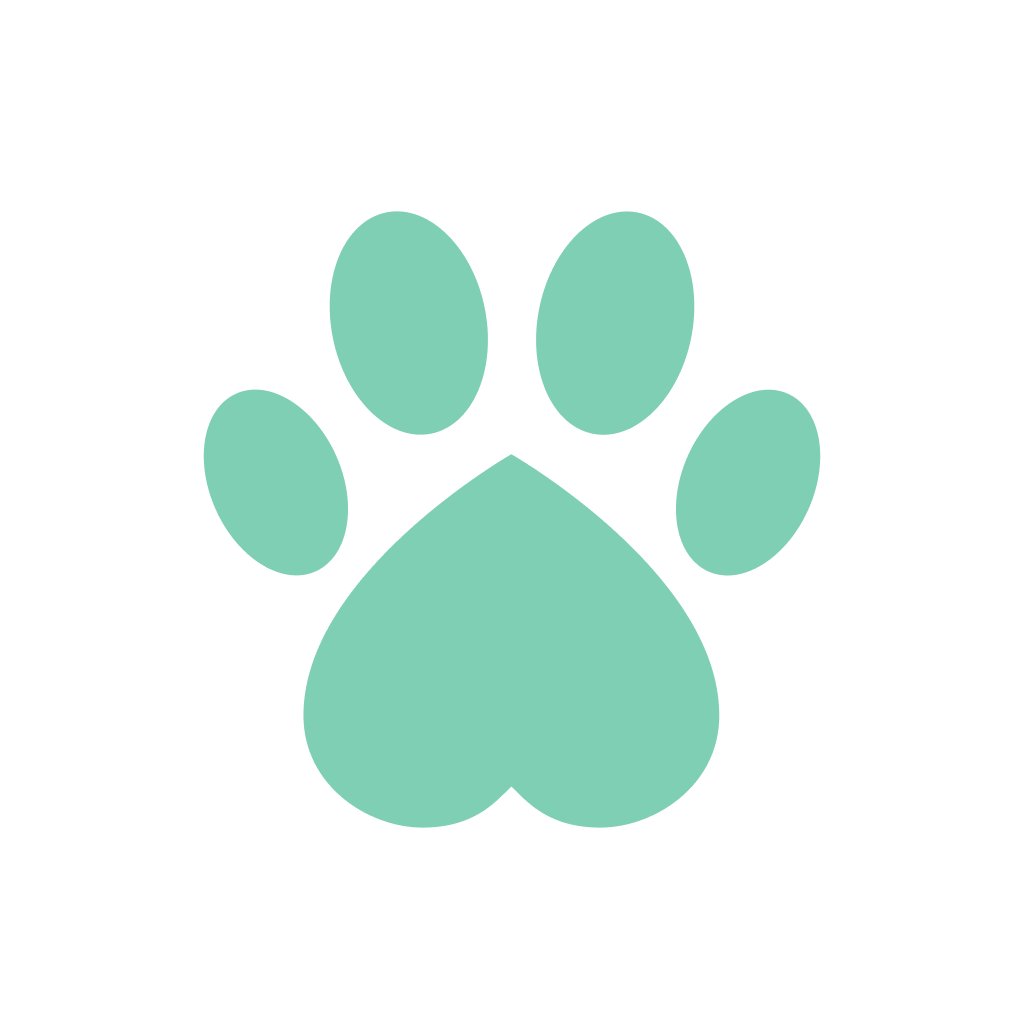
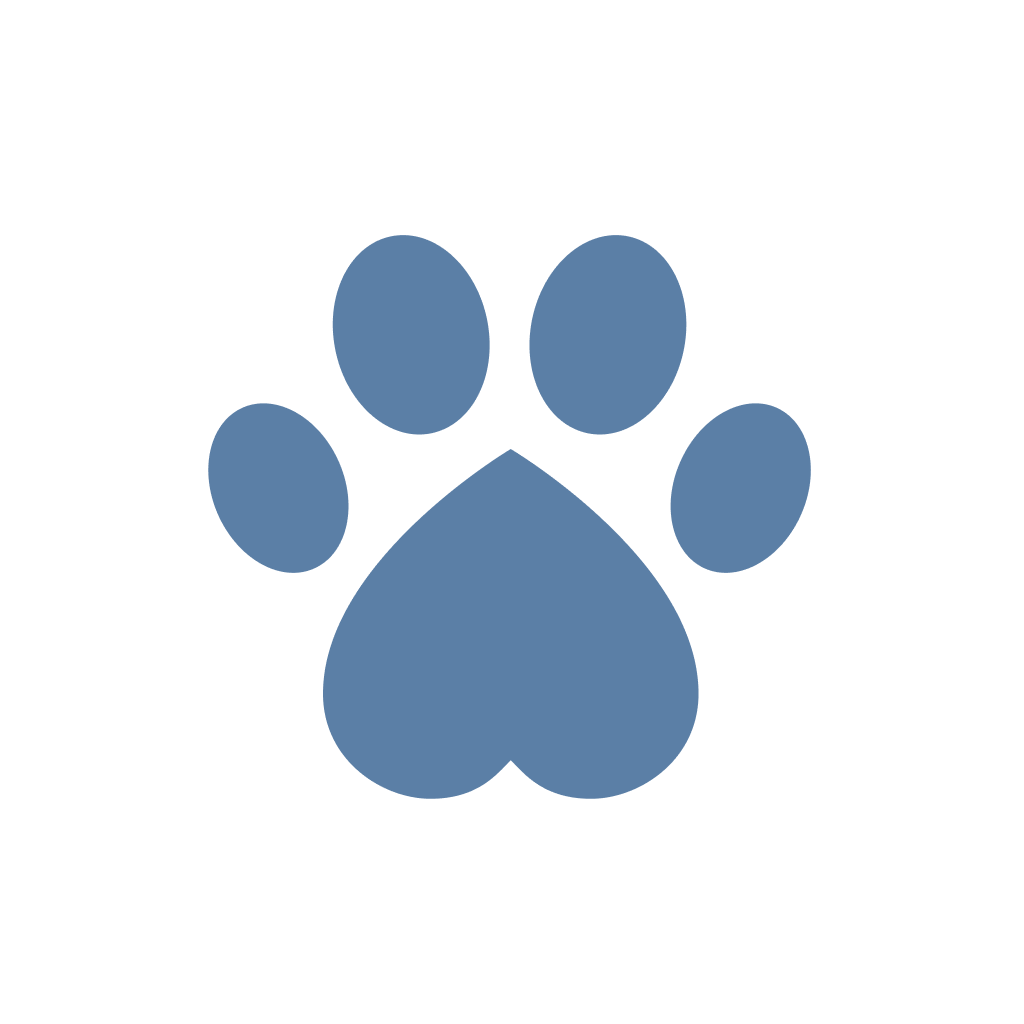
fix: 애플 로그인 expo-apple-authentication으로 전환
기존 코드가 @invertase/react-native-apple-authentication을 require하는데
package.json에 없었음 + ios/app/app.entitlements에 com.apple.developer.applesignin
키도 누락(prebuild --clean 때 사라진 것으로 추정) → 실행 자체가 실패.

## 변경
- `npx expo install expo-apple-authentication` (Expo SDK 공식 라이브러리)
- app.json plugins에 expo-apple-authentication 등록, ios.usesAppleSignIn=true 추가
- login.tsx handleAppleLogin: AppleAuthentication.signInAsync 사용,
  취소 코드도 ERR_REQUEST_CANCELED로 갱신
- prebuild로 ios/app/app.entitlements 재생성 — Apple Sign In capability 자동 추가

아이콘·스플래시 asset PNG 갱신본도 함께 반영(이전부터 워킹트리에 있던 변경).

Changed region(s): [[0.1875, 0.375, 0.8125, 0.8125], [0.3125, 0.1875, 0.6875, 0.4375]]

diff --git a/frontend/app/(auth)/login.tsx b/frontend/app/(auth)/login.tsx
@@ -3,6 +3,7 @@ import { View, Text, TouchableOpacity, Alert, Platform, Image } from 'react-nati
 import { SafeAreaView } from 'react-native-safe-area-context';
 import { router } from 'expo-router';
 import * as WebBrowser from 'expo-web-browser';
+import * as AppleAuthentication from 'expo-apple-authentication';
 import { useQueryClient } from '@tanstack/react-query';
 import { Feather } from '@expo/vector-icons';
 import { Config, Spacing, Typography, Elevation } from '../../constants';
@@ -51,10 +52,11 @@ export default function LoginScreen() {
     if (Platform.OS !== 'ios' && Platform.OS !== 'macos') return;
     setLoading('apple');
     try {
-      const appleAuth = require('@invertase/react-native-apple-authentication').default;
-      const credential = await appleAuth.performRequest({
-        requestedOperation: appleAuth.Operation.LOGIN,
-        requestedScopes: [appleAuth.Scope.EMAIL, appleAuth.Scope.FULL_NAME],
+      const credential = await AppleAuthentication.signInAsync({
+        requestedScopes: [
+          AppleAuthentication.AppleAuthenticationScope.FULL_NAME,
+          AppleAuthentication.AppleAuthenticationScope.EMAIL,
+        ],
       });
       const { identityToken } = credential;
       if (!identityToken) throw new Error('No identity token');
@@ -63,7 +65,8 @@ export default function LoginScreen() {
       setAuth(data.user, data.accessToken, data.refreshToken);
       router.replace('/(tabs)');
     } catch (e: any) {
-      if (e?.code !== '1001') {
+      // ERR_REQUEST_CANCELED: 사용자가 취소한 경우 — 알림 없이 무시
+      if (e?.code !== 'ERR_REQUEST_CANCELED') {
         Alert.alert('오류', '로그인에 실패했습니다. 다시 시도해주세요.');
       }
     } finally {
